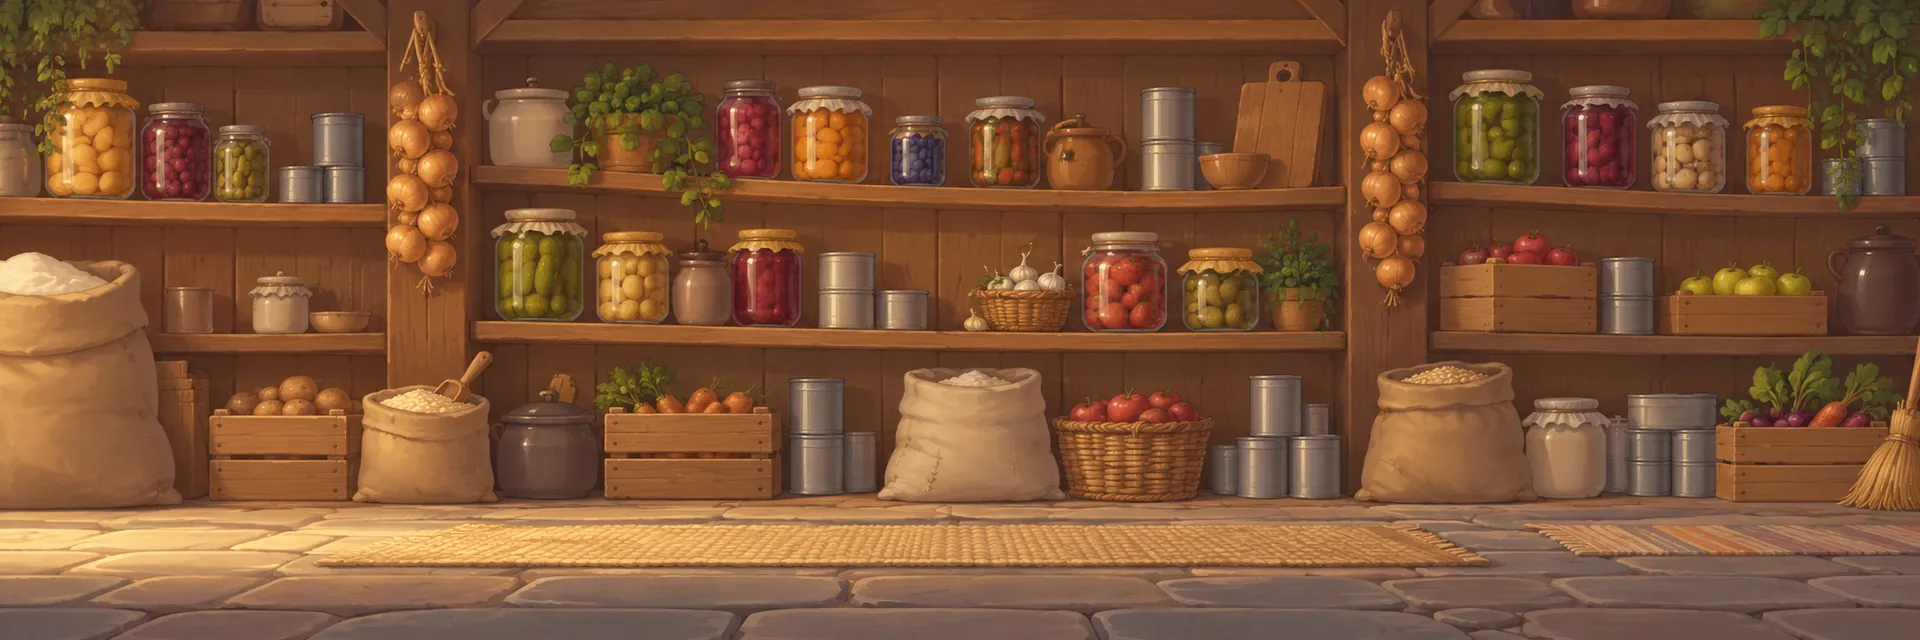
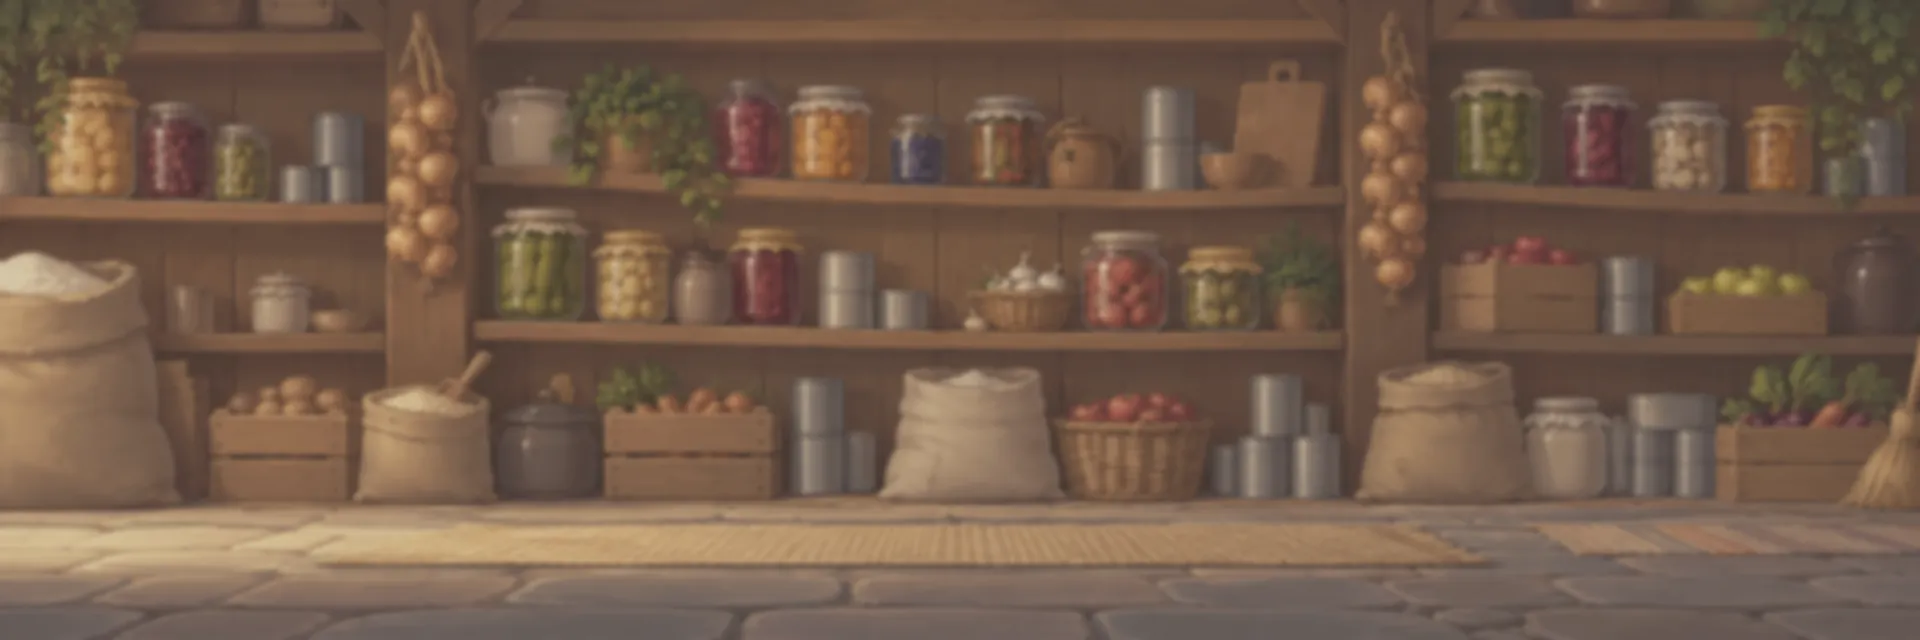
Krümel: alle Platzhalter durch ChatGPT-Grafiken ersetzt (Maus klein/groß, Kätzchen, Küche, Sammelsachen)
Hintergründe werden weicher und blasser gerechnet, damit gemalte Schränke nicht wie Plattformen wirken.

Claude-Session: https://claude.ai/code/session_019XC65z2tQxdB4iH7V5xueR

diff --git a/public/spiele/kruemel/game.js b/public/spiele/kruemel/game.js
@@ -16,8 +16,11 @@ const persist = () => { try { localStorage.setItem(STORE, JSON.stringify(save));
 // ---------------------------------------------------------------- Bilder (ChatGPT-Grafiken; fehlt eins, zeichnet das Spiel den Platzhalter)
 const IMG = {};
 for (const n of ['schlafkater-0', 'schlafkater-1', 'schlafkater-2', 'schale-a', 'schale-b', 'linse-0', 'linse-1', 'linse-2', 'linse-3', 'linse-4',
-  'cookie', 'cookie-riss', 'cookie-krumen', 'kaese-station', 'minze', 'kammer-hintergrund']) {
-  const im = new Image(); im.decoding = 'async'; im.src = `kruemel/img/${n}.webp?v=1`; IMG[n] = im;
+  'cookie', 'cookie-riss', 'cookie-krumen', 'kaese-station', 'minze', 'kammer-hintergrund', 'kueche-hintergrund',
+  ...['stehen', 'lauf-0', 'lauf-1', 'lauf-2', 'lauf-3', 'sprung', 'klettern', 'autsch'].flatMap((n) => ['maus-klein-' + n, 'maus-gross-' + n]),
+  'kaetzchen-0', 'kaetzchen-1', 'kaetzchen-2', 'kaetzchen-flucht', 'kruemel', 'goldkaese', 'fahne-zu', 'fahne-auf', 'kaeseglocke', 'zucker',
+  'regalbrett', 'kochloeffel', 'schublade', 'schrank', 'arbeitsplatte', 'fliese']) {
+  const im = new Image(); im.decoding = 'async'; im.src = `kruemel/img/${n}.webp?v=3`; IMG[n] = im;
 }
 const ok = (n) => { const im = IMG[n]; return im && im.complete && im.naturalWidth > 0 ? im : null; };
 // Bild mit Fußpunkt (x = Mitte, y = Unterkante) und Zielhöhe zeichnen; flip spiegelt waagerecht
@@ -293,8 +296,18 @@ const THEMES = {
   kammer: { wall0: '#ead2a8', wall1: '#d8b781', wood: '#9c6634', top: '#dcc39b', topLine: '#a98a5e', floorA: '#c9a77a', floorB: '#b48f62' },
 };
 const theme = () => THEMES[L.theme] || THEMES.kueche;
+function drawBgImage(name) {
+  const bg = ok(name);
+  if (!bg) return false;
+  const k = vh / bg.naturalHeight, w = bg.naturalWidth * k;
+  let x = -((cam.x * 0.35) % w);
+  for (; x < vw; x += w) cx.drawImage(bg, x, 0, w + 1, vh);
+  cx.fillStyle = 'rgba(255,242,220,.30)'; cx.fillRect(0, 0, vw, vh);   // etwas heller, damit Figuren davor gut zu sehen sind
+  return true;
+}
 function drawBackground() {
   if (L.theme === 'kammer') return drawPantry();
+  if (drawBgImage('kueche-hintergrund')) return;
   const H = vh;
   const g = cx.createLinearGradient(0, 0, 0, H);
   g.addColorStop(0, '#f7ead0'); g.addColorStop(1, '#efd9b2');
@@ -330,14 +343,7 @@ function drawBackground() {
 
 // Speisekammer: Holzwand mit Regalen voller Gläser und Dosen (Parallaxe)
 function drawPantry() {
-  const bg = ok('kammer-hintergrund');
-  if (bg) {
-    const k = vh / bg.naturalHeight, w = bg.naturalWidth * k;
-    let x = -((cam.x * 0.35) % w);
-    for (; x < vw; x += w) cx.drawImage(bg, x, 0, w + 1, vh);
-    cx.fillStyle = 'rgba(255,240,215,.22)'; cx.fillRect(0, 0, vw, vh);   // etwas heller, damit Figuren davor gut zu sehen sind
-    return;
-  }
+  if (drawBgImage('kammer-hintergrund')) return;
   const g = cx.createLinearGradient(0, 0, 0, vh);
   g.addColorStop(0, '#ead2a8'); g.addColorStop(1, '#d8b781');
   cx.fillStyle = g; cx.fillRect(0, 0, vw, vh);
@@ -368,11 +374,22 @@ function drawPantry() {
 function drawTiles() {
   const th = theme();
   const tx0 = Math.max(0, Math.floor(cam.x / T)), tx1 = Math.min(L.w - 1, Math.floor((cam.x + vw) / T));
-  const ty0 = Math.max(0, Math.floor(cam.y / T)), ty1 = Math.min(L.h - 1, Math.floor((cam.y + vh) / T));
+  const ty0 = Math.max(0, Math.floor(cam.y / T) - 8), ty1 = Math.min(L.h - 1, Math.floor((cam.y + vh) / T));
   for (let ty = ty0; ty <= ty1; ty++) for (let tx = tx0; tx <= tx1; tx++) {
     const k = tileAt(s.L, tx, ty); if (!k) continue;
     const x = tx * T, y = ty * T;
-    if (k === SOLID) {
+    if (k === SOLID && ok('schrank')) {
+      const topOpen = ty === 0 || tileAt(L, tx, ty - 1) !== SOLID;
+      if (ty >= L.floor) {
+        if (L.theme !== 'kammer' && ok('fliese')) cx.drawImage(IMG.fliese, x, y, T, T);
+        else { cx.fillStyle = (tx + ty) % 2 ? th.floorA : th.floorB; cx.fillRect(x, y, T, T); }
+        if (topOpen) { cx.fillStyle = 'rgba(120,80,40,.45)'; cx.fillRect(x, y, T, 3); }
+      } else {
+        cx.drawImage(IMG.schrank, x, y, T, T);
+        if (L.theme === 'kammer') { cx.fillStyle = 'rgba(90,50,20,.22)'; cx.fillRect(x, y, T, T); }
+        if (topOpen && ok('arbeitsplatte')) { const ap = IMG.arbeitsplatte; cx.drawImage(ap, (tx % 4) * ap.naturalWidth / 4, 0, ap.naturalWidth / 4, ap.naturalHeight, x, y - 2, T, 11); }
+      }
+    } else if (k === SOLID) {
       const topOpen = ty === 0 || tileAt(L, tx, ty - 1) !== SOLID;
       if (ty >= L.floor) {
         cx.fillStyle = (tx + ty) % 2 ? th.floorA : th.floorB; cx.fillRect(x, y, T, T);
@@ -386,6 +403,8 @@ function drawTiles() {
         if (leftOpen) cx.fillRect(x, y, 2, T);
         if (rightOpen) cx.fillRect(x + T - 2, y, 2, T);
       }
+    } else if (k === SUGAR && ok('zucker')) {
+      cx.drawImage(IMG.zucker, x, y, T, T);
     } else if (k === SUGAR) {
       // Zuckerwürfel: weiß, leicht glitzernd
       cx.fillStyle = '#ffffff'; rr(x + 1, y + 1, T - 2, T - 2, 4); cx.fill();
@@ -394,6 +413,11 @@ function drawTiles() {
       cx.fillStyle = 'rgba(200,215,225,.9)';
       for (let i = 0; i < 5; i++) { const a = (tx * 7 + ty * 13 + i * 5) % 22; cx.fillRect(x + 5 + a, y + 5 + ((a * 3 + i * 7) % 20), 2, 2); }
       if ((s.t + tx * 17) % 120 < 8) { cx.fillStyle = '#fff'; cx.fillRect(x + 8, y + 6, 3, 3); }
+    } else if (k === SHELF && ok('regalbrett')) {
+      const im = IMG.regalbrett, iw = im.naturalWidth, ih = im.naturalHeight, e = iw * 0.08;
+      const l = tileAt(L, tx - 1, ty) !== SHELF, r = tileAt(L, tx + 1, ty) !== SHELF;
+      const sx = l ? 0 : r ? iw - iw * 0.3 : e + ((tx * 37) % 5) * (iw - 2 * e) / 6, sw = l || r ? iw * 0.3 : (iw - 2 * e) / 6;
+      cx.drawImage(im, sx, 0, sw, ih, x - (l ? 1 : 0), y - 1, T + (l || r ? 1 : 0.5), 10);
     } else if (k === SHELF) {
       cx.fillStyle = '#a8692f'; rr(x - 1, y, T + 2, 8, 2); cx.fill();
       cx.fillStyle = '#c98b4f'; cx.fillRect(x - 1, y, T + 2, 3);
@@ -401,6 +425,13 @@ function drawTiles() {
         // Halter an den Enden
         const hx = tileAt(L, tx - 1, ty) !== SHELF ? x + 6 : x + T - 10;
         cx.fillStyle = '#7d7d86'; cx.beginPath(); cx.moveTo(hx, y + 8); cx.lineTo(hx + 4, y + 8); cx.lineTo(hx + 4, y + 22); cx.closePath(); cx.fill();
+      }
+    } else if (k === LADDER && ok('kochloeffel')) {
+      // ganzer Kochlöffel: am obersten Feld über die gesamte Leiterlänge zeichnen
+      if (tileAt(L, tx, ty - 1) !== LADDER) {
+        let n = 1; while (tileAt(L, tx, ty + n) === LADDER) n++;
+        const h = n * T + 22, w = h * IMG.kochloeffel.naturalWidth / IMG.kochloeffel.naturalHeight;
+        cx.drawImage(IMG.kochloeffel, x + T / 2 - Math.max(w, 12) / 2, y - 22, Math.max(w, 12), h);
       }
     } else if (k === LADDER) {
       // Kochlöffel: Stiel mit Kerben, oben die Kelle
@@ -468,6 +499,7 @@ function drawLifts() {
     cx.strokeStyle = 'rgba(94,52,21,.25)'; cx.lineWidth = 3; cx.setLineDash([6, 6]);
     cx.beginPath(); cx.moveTo(lf.x + lf.w / 2, lf.high); cx.lineTo(lf.x + lf.w / 2, lf.low + 24); cx.stroke(); cx.setLineDash([]);
     const y = lf.y;
+    if (ok('schublade')) { const im = IMG.schublade, w = lf.w + 4; cx.drawImage(im, lf.x - 2, y - 2, w, w * im.naturalHeight / im.naturalWidth); continue; }
     cx.fillStyle = '#b97a3e'; rr(lf.x, y, lf.w, 26, 4); cx.fill();
     cx.fillStyle = '#d99c5c'; cx.fillRect(lf.x + 2, y, lf.w - 4, LIFT_H - 4);
     cx.fillStyle = '#8a5428'; rr(lf.x + lf.w / 2 - 10, y + 15, 20, 5, 2); cx.fill();
@@ -476,6 +508,7 @@ function drawLifts() {
 
 function drawCrumb(x, y, t) {
   const b = Math.sin(t / 12 + x) * 2;
+  if (ok('kruemel')) { cx.drawImage(IMG.kruemel, x - 7, y - 6 + b, 14, 12); return; }
   cx.fillStyle = '#d99a3e'; cx.beginPath(); cx.ellipse(x, y + b, 6, 5, 0.3, 0, Math.PI * 2); cx.fill();
   cx.fillStyle = '#f2c46c'; cx.beginPath(); cx.ellipse(x - 2, y - 2 + b, 2.5, 2, 0, 0, Math.PI * 2); cx.fill();
 }
@@ -489,11 +522,14 @@ function drawCheese(x, y, size, glow, t) {
   cx.restore();
 }
 function drawFlag(f, on) {
+  const im = ok(on ? 'fahne-auf' : 'fahne-zu');
+  if (im) { sprite(im, f.x + (on ? 10 : 0), f.y + 1, 48); return; }
   cx.fillStyle = '#e2c79b'; cx.fillRect(f.x - 1.5, f.y - 46, 3, 46);
   cx.fillStyle = on ? '#FF9200' : '#bfb3a0';
   cx.beginPath(); cx.moveTo(f.x + 1.5, f.y - 46); cx.lineTo(f.x + 24, f.y - 39 + (on ? Math.sin(s.t / 6) * 2 : 0)); cx.lineTo(f.x + 1.5, f.y - 31); cx.closePath(); cx.fill();
 }
 function drawGoal(g, t) {
+  if (ok('kaeseglocke')) { cx.fillStyle = `rgba(255,210,28,${0.2 + 0.12 * Math.sin(t / 9)})`; cx.beginPath(); cx.arc(g.x, g.y - 26, 34, 0, 7); cx.fill(); sprite(IMG.kaeseglocke, g.x, g.y + 2, 56); return; }
   cx.fillStyle = '#fff'; cx.beginPath(); cx.ellipse(g.x, g.y - 3, 26, 5, 0, 0, Math.PI * 2); cx.fill();
   cx.strokeStyle = '#d9cfc0'; cx.lineWidth = 2; cx.stroke();
   drawCheese(g.x, g.y - 16, 13, true, t);
@@ -505,6 +541,15 @@ function drawGoal(g, t) {
 function drawCat(c) {
   if (c.state === 'gone') return;
   const fleeing = c.state === 'flee';
+  const im = ok(fleeing ? 'kaetzchen-flucht' : 'kaetzchen-' + (Math.floor(c.t / 9) % 3));
+  if (im) {
+    const x = c.x + c.w / 2, y = c.y + c.h;
+    cx.save();
+    if (fleeing) { cx.globalAlpha = Math.max(0, 1 - c.t / 50); }
+    sprite(im, x, y + 2, 32, c.vx < 0);
+    cx.restore();
+    return;
+  }
   const x = c.x + c.w / 2, y = c.y + c.h;
   const dir = c.vx > 0 ? 1 : -1;
   cx.save(); cx.translate(x, y);
@@ -567,8 +612,8 @@ function drawSleeper(c) {
   const im = ok('schlafkater-' + fr);
   if (im) {
     const flip = s.p.x + s.p.w / 2 < x;      // schaut zur Maus
-    if (fr === 2) sprite(im, x, y + 2, 50, flip);
-    else { const br = fr === 0 ? 1 + Math.sin(s.t / 25) * 0.02 : 1; sprite(im, x, y + 2, 32 * br, flip); }
+    const br = fr === 0 ? 1 + Math.sin(s.t / 25) * 0.015 : 1;
+    sprite(im, x, y + 3, 54 * br, flip);
     return;
   }
   cx.save(); cx.translate(x, y);
@@ -602,9 +647,29 @@ function drawSleeper(c) {
   cx.restore();
 }
 
+function mouseFrame(p) {
+  if ((p.freeze > 0 && p.freezeKind === 'hit') || p.push > 0) return 'autsch';
+  if (p.ladder) return 'klettern';
+  if (!p.ground) return 'sprung';
+  if (Math.abs(p.vx) > 0.3) return 'lauf-' + (Math.floor(p.runT / 11) % 4);
+  return 'stehen';
+}
 function drawMouse() {
   const p = s.p;
   if (p.invuln > 0 && Math.floor(p.invuln / 4) % 2 === 0) return;
+  const im = ok((p.big ? 'maus-gross-' : 'maus-klein-') + mouseFrame(p));
+  if (im) {
+    let h = p.big ? 58 : 34;
+    if (p.growT > 0) h *= 1 + Math.sin(p.growT * 0.9) * 0.12;
+    let sx = 1, sy = 1;
+    if (p.landT > 0) { const k = p.landT / 8 * 0.15; sx = 1 + k; sy = 1 - k; }
+    const x = p.x + p.w / 2, y = p.y + p.h + 2;
+    cx.save(); cx.translate(x, y); cx.scale(sx, sy);
+    if (p.freeze > 0 && p.freezeKind === 'hit') cx.rotate(Math.sin(s.t * 0.6) * 0.2);
+    sprite(im, 0, 0, h, !p.ladder && p.face < 0);
+    cx.restore();
+    return;
+  }
   const x = p.x + p.w / 2, y = p.y + p.h;
   cx.save(); cx.translate(x, y);
   // Quetschen und Strecken
@@ -671,7 +736,11 @@ function render() {
   L.flags.forEach((f, i) => drawFlag(f, s.flagHit[i]));
   L.crumbs.forEach((c, i) => { if (!s.crumbs[i]) drawCrumb(c.x, c.y, s.t); });
   L.chocs.forEach((c, i) => { if (!s.chocs[i]) drawChoc(c, s.t); });
-  L.golds.forEach((g, i) => { if (!s.golds[i]) drawCheese(g.x, g.y, 10, true, s.t + i * 20); });
+  L.golds.forEach((g, i) => {
+    if (s.golds[i]) return;
+    if (ok('goldkaese')) { const b = Math.sin((s.t + i * 20) / 15) * 2; cx.fillStyle = `rgba(255,210,28,${0.22 + 0.12 * Math.sin(s.t / 8)})`; cx.beginPath(); cx.arc(g.x, g.y + b, 15, 0, 7); cx.fill(); cx.drawImage(IMG.goldkaese, g.x - 14, g.y - 12 + b, 28, 23); }
+    else drawCheese(g.x, g.y, 10, true, s.t + i * 20);
+  });
   s.sleepers.forEach(drawSleeper);
   drawGoal(L.goal, s.t);
   s.cats.forEach(drawCat);

diff --git a/public/spiele/kruemel.html b/public/spiele/kruemel.html
@@ -130,5 +130,5 @@ var last=0;document.addEventListener('touchend',function(e){var now=Date.now();i
 ['pad','jump','game'].forEach(function(id){var el=document.getElementById(id);if(el)el.addEventListener('touchstart',stop,nf)});
 })();
 </script>
-<script type="module" src="./kruemel/game.js?v=4"></script>
+<script type="module" src="./kruemel/game.js?v=5"></script>
 <script src="../assets/playsaal-config.js" defer></script><script src="../assets/playsaal.js" defer></script></body></html>

diff --git a/tools/kruemel-assets.py b/tools/kruemel-assets.py
@@ -16,7 +16,7 @@ import os
 import sys
 
 import numpy as np
-from PIL import Image
+from PIL import Image, ImageEnhance, ImageFilter
 from scipy import ndimage
 
 ROOT = os.path.normpath(os.path.join(os.path.dirname(os.path.abspath(__file__)), '..'))
@@ -24,12 +24,18 @@ SRC = os.path.join(ROOT, 'design', 'kruemel')
 OUT = os.path.join(ROOT, 'public', 'spiele', 'kruemel', 'img')
 
 # Quelle, erwartete Teilbilder (Namen von links nach rechts), maximale Höhe der Ausgabe in px
+MAUS = ['stehen', 'lauf-0', 'lauf-1', 'lauf-2', 'lauf-3', 'sprung', 'klettern', 'autsch']
 SHEETS = [
+    ('kruemel-b.png', ['maus-klein-' + n for n in MAUS], 128),
+    ('kruemel-a.png', ['maus-gross-' + n for n in MAUS], 160),
+    ('kaetzchen.png', ['kaetzchen-0', 'kaetzchen-1', 'kaetzchen-2', 'kaetzchen-flucht'], 128),
+    ('items.png', ['kruemel', 'goldkaese', 'fahne-zu', 'fahne-auf', 'kaeseglocke', 'zucker'], 128),
+    ('kueche-objekte.png', ['regalbrett', 'kochloeffel', 'schublade', 'schrank', 'arbeitsplatte', 'fliese'], 128),
     ('schlafkater.png', ['schlafkater-0', 'schlafkater-1', 'schlafkater-2'], 160),
     ('waage.png', ['waage', 'schale-a', 'schale-b'], 120),
     ('extras.png', ['linse-0', 'linse-1', 'linse-2', 'linse-3', 'linse-4', 'cookie', 'cookie-riss', 'cookie-krumen', 'kaese-station', 'minze'], 96),
 ]
-BACKGROUNDS = [('kammer-hintergrund.png', 'kammer-hintergrund', 640)]
+BACKGROUNDS = [('kammer-hintergrund.png', 'kammer-hintergrund', 640), ('kueche-hintergrund.png', 'kueche-hintergrund', 640)]
 
 
 def split_cols(img, n):
@@ -89,6 +95,26 @@ def split(img, n):
     return out
 
 
+def split_even(img, n):
+    """Letzter Ausweg, wenn sich Posen berühren (z. B. Ohr an Schwanz): n gleich breite Felder über den
+    Inhalt legen und jeweils an der dünnsten Spalte in der Nähe der Feldgrenze schneiden."""
+    arr = np.array(img)
+    dens = (arr[..., 3] > 150).sum(axis=0)
+    xs = np.where(dens > 2)[0]
+    x0, x1 = int(xs.min()), int(xs.max()) + 1
+    step = (x1 - x0) / n
+    cuts = [x0]
+    for k in range(1, n):
+        c = int(x0 + k * step); r = int(step * 0.25)
+        cuts.append(c - r + int(np.argmin(dens[c - r:c + r])))
+    cuts.append(x1)
+    out = []
+    for a, b in zip(cuts, cuts[1:]):
+        part = arr.copy(); part[:, :a] = 0; part[:, b:] = 0
+        out.append(Image.fromarray(part))
+    return out
+
+
 def clean(img):
     a = np.array(img).copy()
     a[a[..., 3] < 40] = 0
@@ -103,12 +129,18 @@ def main():
             print('fehlt:', src); continue
         img = clean(Image.open(path).convert('RGBA'))
         parts = split_cols(img, len(names)) or split(img, len(names))
+        if len(parts) != len(names) or max(p.getbbox()[2] - p.getbbox()[0] for p in parts) > 1.8 * min(p.getbbox()[2] - p.getbbox()[0] for p in parts) and src.startswith('kruemel'):
+            parts = split_even(img, len(names))
         if len(parts) != len(names):
             sys.exit(f'{src}: {len(parts)} Teile gefunden, erwartet {len(names)}')
-        for part, name in zip(parts, names):
-            bbox = part.getbbox()
-            part = part.crop(bbox)
-            k = min(1, max_h / part.height)
+        # Figuren-Posen: gemeinsame Ober-/Unterkante, damit die Animation nicht springt (Füße bleiben auf einer Linie)
+        same_rows = src.startswith(('kruemel', 'kaetzchen', 'schlafkater'))
+        boxes = [p.getbbox() for p in parts]
+        top, bottom = min(b[1] for b in boxes), max(b[3] for b in boxes)
+        k_all = min(1, max_h / (bottom - top))
+        for part, name, bbox in zip(parts, names, boxes):
+            part = part.crop((bbox[0], top, bbox[2], bottom) if same_rows else bbox)
+            k = k_all if same_rows else min(1, max_h / part.height)
             part = part.resize((max(1, round(part.width * k)), max(1, round(part.height * k))), Image.LANCZOS)
             part.save(os.path.join(OUT, name + '.webp'), 'WEBP', quality=88, method=6)
             print(f'{name}.webp {part.width}×{part.height}')
@@ -118,6 +150,11 @@ def main():
             print('fehlt:', src); continue
         img = Image.open(path).convert('RGB')
         img = img.resize((round(img.width * h / img.height), h), Image.LANCZOS)
+        # Hintergrund zurücknehmen: leicht unscharf, weniger Kontrast und Farbe – sonst sehen gemalte Schränke wie Plattformen aus
+        img = img.filter(ImageFilter.GaussianBlur(2.2))
+        img = ImageEnhance.Contrast(img).enhance(0.72)
+        img = ImageEnhance.Color(img).enhance(0.75)
+        img = ImageEnhance.Brightness(img).enhance(1.06)
         img.save(os.path.join(OUT, name + '.webp'), 'WEBP', quality=80, method=6)
         print(f'{name}.webp {img.width}×{img.height}')
 
